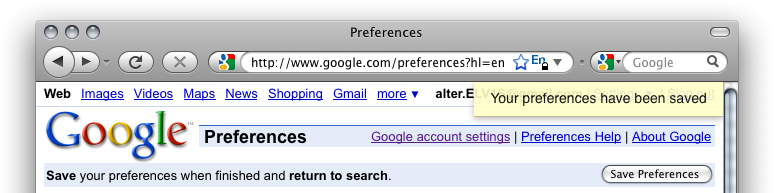
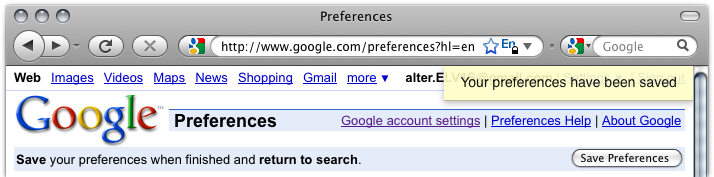
+ tests * MacOS X Leopard shadow from screnshots removed

diff --git a/tests.html b/tests.html
@@ -1,0 +1,18 @@
+<!DOCTYPE html>
+<html>
+<head>
+	<title>Tests</title>
+</head>
+<body>
+<script type="text/javascript" src="nice_alert.user.js"></script>
+<script type="text/javascript" id="script">
+alert('Yada yada yada');
+alert("Down, down, down. There was nothing else to do, so Alice soon began talking again. `Dinah'll miss me very much to-night, I should think!' (Dinah was the cat.) `I hope they'll remember her saucer of milk at tea-time. Dinah my dear! I wish you were down here with me! There are no mice in the air, I'm afraid, but you might catch a bat, and that's very like a mouse, you know. But do cats eat bats, I wonder?' And here Alice began to get rather sleepy, and went on saying to herself, in a dreamy sort of way, `Do cats eat bats? Do cats eat bats?' and sometimes, `Do bats eat cats?' for, you see, as she couldn't answer either question, it didn't much matter which way she put it. She felt that she was dozing off, and had just begun to dream that she was walking hand in hand with Dinah, and saying to her very earnestly, `Now, Dinah, tell me the truth: did you ever eat a bat?' when suddenly, thump! thump! down she came upon a heap of sticks and dry leaves, and the fall was over.");
+alert('');
+alert(123);
+alert(' 0\t1\n 1\t0\n 2\t0\n 4\t1\n 8\t2');
+</script>
+<script type="text/javascript">
+alert( document.getElementById('script').innerHTML );
+</script>
+</body></html>
